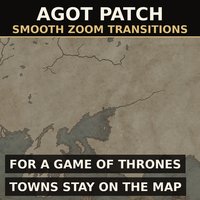
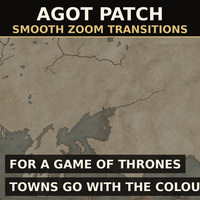
Holdings leave on step 10 with the colour overlay instead of AGOT's 16: thousands of meshes over the painted map cost 60 -> 17 FPS

Changed region(s): [[0.3, 0.87, 1.0, 0.99]]

diff --git a/steam-workshop/make_thumbnail.py b/steam-workshop/make_thumbnail.py
@@ -33,7 +33,7 @@ def main():
     f_tag = fit(d, "FOR A GAME OF THRONES", 84, S - 52 - 44)
     tag_h = f_tag.size + 22 * 2 - 10
     label(d, S - 2 * tag_h - 44, "FOR A GAME OF THRONES", f_tag)
-    label(d, S - tag_h - 22, "TOWNS STAY ON THE MAP", f_tag)
+    label(d, S - tag_h - 22, "TOWNS GO WITH THE COLOURS", f_tag)
     finish(canvas, OUT)
 
 if __name__ == "__main__":

diff --git a/README.md b/README.md
@@ -7,7 +7,8 @@ work on the map of the
 total conversion. Without it the base mod, loaded below AGOT, makes every holding
 model on the AGOT map vanish on zoom step 8 - long before the realm colours start
 filling the map - and leaves AGOT's roads, special buildings and animals on layers
-that its table does not declare.
+that its table does not declare. The patch also stops AGOT drawing every holding
+model until step 16, far into the painted political map.
 
 <img src="thumbnail.png" alt="AGOT Patch for Smooth Zoom Transitions" width="360">
 
@@ -43,11 +44,12 @@ name order.
 
 Two layer tables and one defines file, AGOT's numbers with the base mod's idea applied to
 them: nothing that AGOT unloads together with the two low tree layers on step 9 stays
-there, and nothing AGOT keeps until step 16 is touched.
+there, and the holding models leave when the realm colours arrive instead of six steps
+later.
 
 | file | what |
 | --- | --- |
-| `gfx/map/map_object_data/game_object_layers.txt` | AGOT's seven layers; `activities_layer` 9 → 7, `AGOT_animal_layer` 9 → 8, `unit_layer` 9 → 10; the four building and road layers stay on 16 |
+| `gfx/map/map_object_data/game_object_layers.txt` | AGOT's seven layers; `activities_layer` 9 → 7, `AGOT_animal_layer` 9 → 8, `unit_layer` 9 → 10, `building_layer` 16 → 10; the special buildings and the two road layers stay on 16 |
 | `gfx/map/map_object_data/effect_layers.txt` | coast foam 9 → 7, mountain env effects 9 → 8 (the base mod uses 6 and 7; AGOT's camera is lower at the same step, so the same heights are one step later) |
 | `common/defines/graphic/zz_smooth_zoom_agot.txt` | `LARGE_NAMES_ZOOM_STEP` back to AGOT's 12 |
 | `common/defines/graphic/zz_smooth_zoom_agot_ultrawide.txt.off` | opt-in, see below |
@@ -67,7 +69,18 @@ On AGOT's camera, the zoom steps the patch uses:
 | step | 6 | 7 | 8 | 9 | 10 | 12 | 16 |
 | --- | --- | --- | --- | --- | --- | --- | --- |
 | camera height | 179 | 210 | 250 | 300 | 355 | 468 | 793 |
-| unloads / switches | grass | activities, coast foam | animals, mountain and other env effects | `tree_low`, `tree_medium` | armies, colour overlay starts, fort and raid icons, AGOT's fog of war fade | large map names | holdings, roads, special buildings, `tree_high` |
+| unloads / switches | grass | activities, coast foam | animals, mountain and other env effects | `tree_low`, `tree_medium` | holdings, armies, colour overlay starts, fort and raid icons, AGOT's fog of war fade | large map names | roads, special buildings, `tree_high` |
+
+### Why the holdings leave on step 10
+
+AGOT keeps `building_layer` until step 16, 793 units up, when the realm colour overlay has
+been fully opaque since step 15 and the map reads as a painted political map. Every castle,
+city and temple on the screen is still a mesh instance at that height, over an area many
+times what vanilla ever draws holdings on, and that is where a 4 GB laptop GPU dropped from
+60 to 17 FPS on the AGOT map. Step 10 is where the overlay starts filling (the base mod
+moves it there from 9), so the models go as the colours come. The 64 special buildings and
+the road objects are few and stay on AGOT's 16; `fade_out` is one number per layer in
+`game_object_layers.txt` if you want them back longer.
 
 ### Ultrawide extra (opt-in)
 
